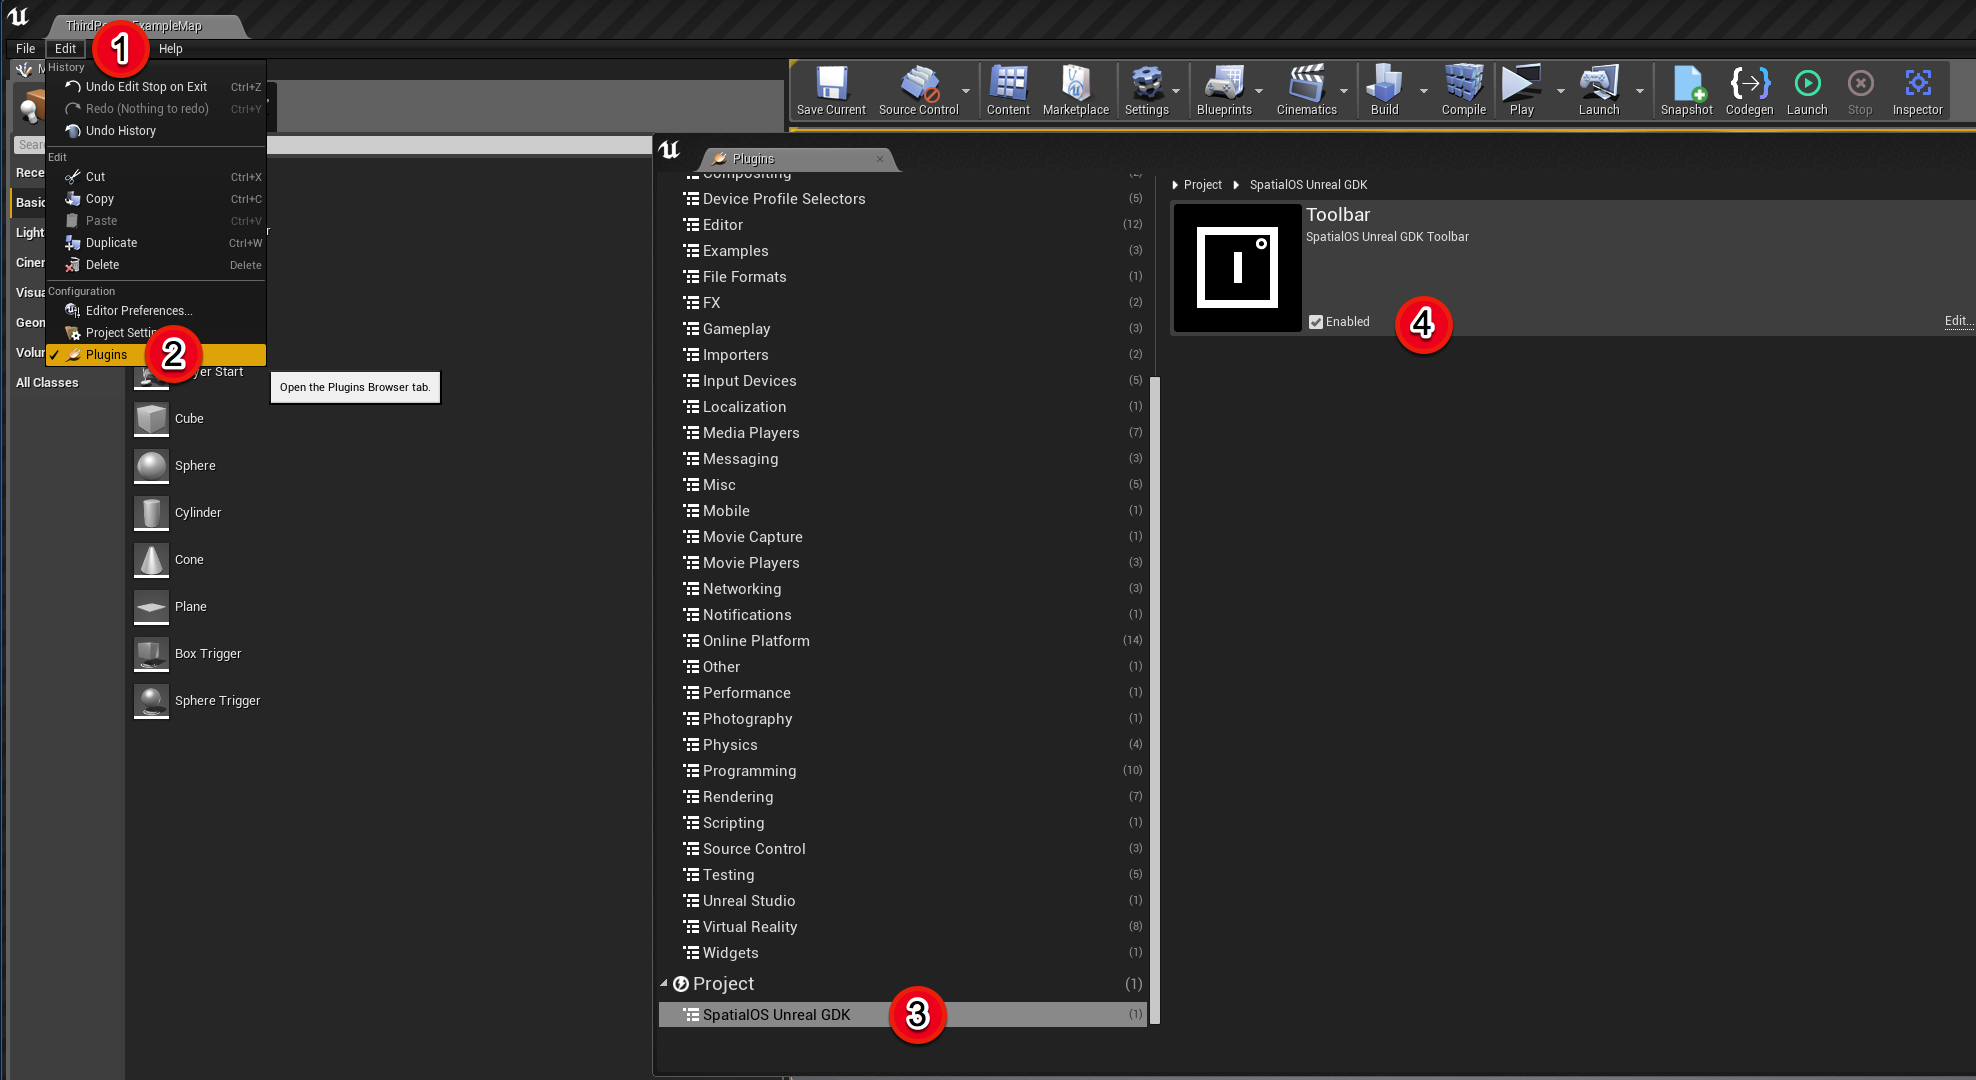
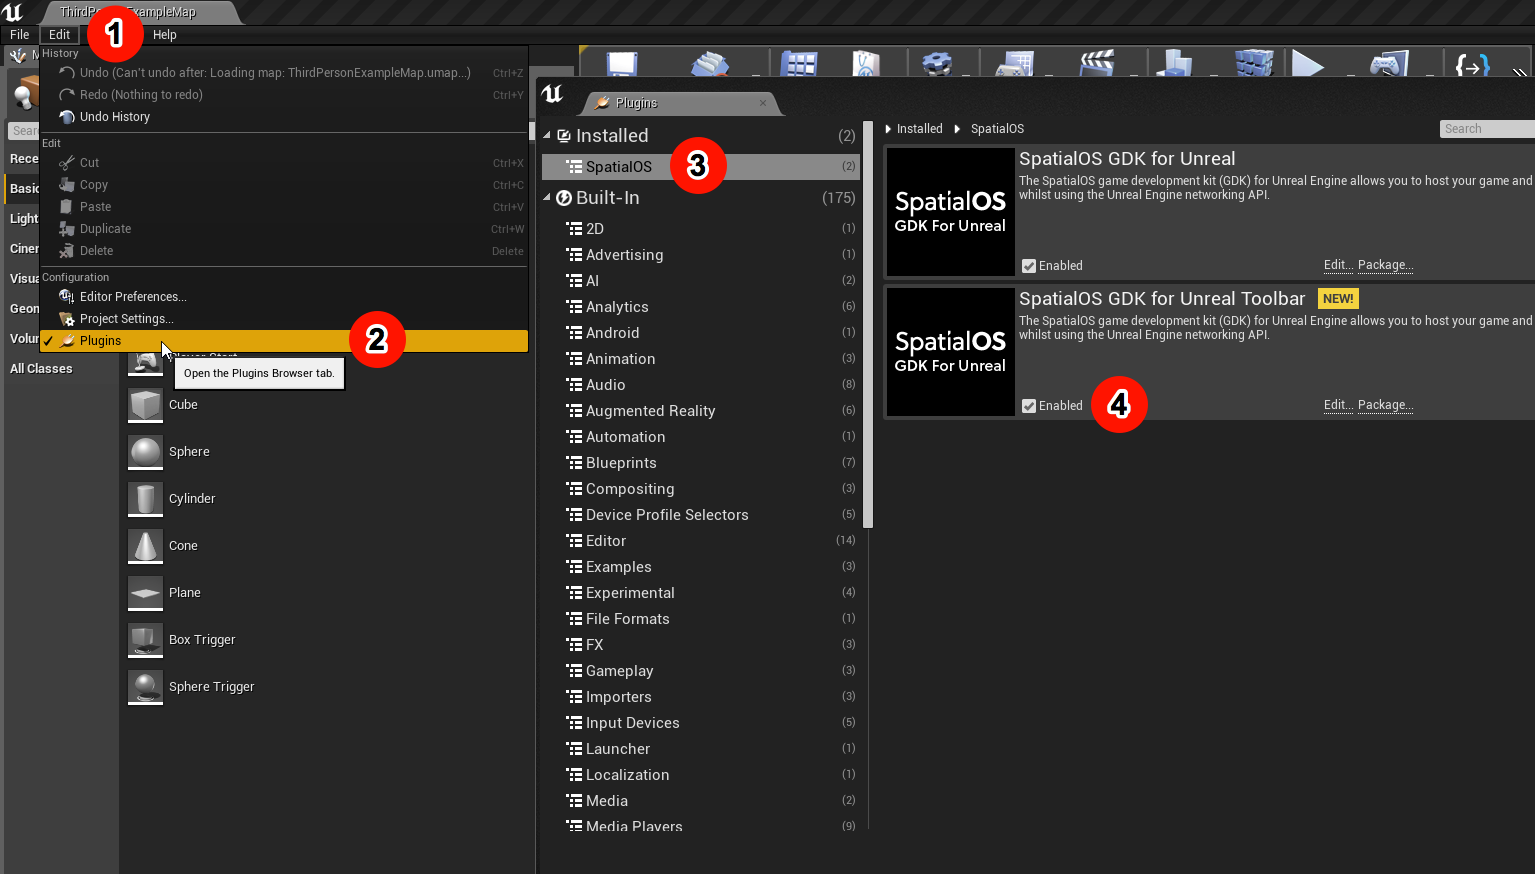
Refactored the plugin naming and image (#459)

Changed region(s): [[0.0, 0.0, 1.0, 1.0]]

diff --git a/SpatialGDKEditorToolbar/Source/Private/SpatialGDKEditorToolbar.cpp b/SpatialGDKEditorToolbar/Source/Private/SpatialGDKEditorToolbar.cpp
@@ -123,12 +123,12 @@ void FSpatialGDKEditorToolbarModule::RegisterSettings()
 	{
 		ISettingsContainerPtr SettingsContainer = SettingsModule->GetContainer("Project");
 
-		SettingsContainer->DescribeCategory("SpatialGDKEditorToolbar", LOCTEXT("RuntimeWDCategoryName", "SpatialOS Unreal GDK"),
-			LOCTEXT("RuntimeWDCategoryDescription", "Configuration for the SpatialGDK Editor toolbar plugin"));
+		SettingsContainer->DescribeCategory("SpatialGDKEditorToolbar", LOCTEXT("RuntimeWDCategoryName", "SpatialOS GDK for Unreal"),
+			LOCTEXT("RuntimeWDCategoryDescription", "Configuration for the SpatialOS GDK for Unreal"));
 
-		ISettingsSectionPtr SettingsSection = SettingsModule->RegisterSettings("Project", "SpatialGDKEditorToolbar", "Toolbar",
-			LOCTEXT("RuntimeGeneralSettingsName", "Toolbar"),
-			LOCTEXT("RuntimeGeneralSettingsDescription", "Configuration for the SpatialOS Unreal GDK toolbar plugin."),
+		ISettingsSectionPtr SettingsSection = SettingsModule->RegisterSettings("Project", "SpatialGDKEditorToolbar", "Settings",
+			LOCTEXT("RuntimeGeneralSettingsName", "Settings"),
+			LOCTEXT("RuntimeGeneralSettingsDescription", "Configuration for the SpatialOS GDK for Unreal"),
 			GetMutableDefault<USpatialGDKEditorToolbarSettings>());
 
 		if (SettingsSection.IsValid())
@@ -142,7 +142,7 @@ void FSpatialGDKEditorToolbarModule::UnregisterSettings()
 {
 	if (ISettingsModule* SettingsModule = FModuleManager::GetModulePtr<ISettingsModule>("Settings"))
 	{
-		SettingsModule->UnregisterSettings("Project", "SpatialGDK", "Toolbar");
+		SettingsModule->UnregisterSettings("Project", "SpatialGDK", "Settings");
 	}
 }
 

diff --git a/SpatialGDK/Documentation/content/toolbars.md b/SpatialGDK/Documentation/content/toolbars.md
@@ -44,7 +44,7 @@ The GDK toolbar provides several functions required for building and launching y
 
 > Note: If you based your project off the [StarterProject](https://github.com/spatialos/UnrealGDKStarterProject), the toolbar is already enabled.
 
-To enable the GDK toolbar, navigate to **Edit** > **Plugins** inside the Unreal Editor and scroll down to the bottom. Select the **SpatialOS Unreal GDK** section and enable the toolbar:
+To enable the GDK toolbar, navigate to **Edit** > **Plugins** inside the Unreal Editor and scroll down to the bottom. Select the **SpatialOS** section and enable the toolbar:
 
 ![Toolbar]({{assetRoot}}assets/screen-grabs/toolbar/enable-toolbar.png)
 
@@ -68,7 +68,7 @@ You can also access these from the **Window** menu:
 
 #### Settings
 
-The toolbar settings are in **Edit** > **Project Settings** > **SpatialOS Unreal GDK** > **Toolbar**.
+The toolbar settings are in **Edit** > **Project Settings** > **SpatialOS GDK for Unreal** > **Settings**.
 
  ![Toolbar]({{assetRoot}}assets/screen-grabs/toolbar/toolbar-settings.png)
 
@@ -86,5 +86,5 @@ The toolbar settings are in **Edit** > **Project Settings** > **SpatialOS Unreal
 
 | Setting | Description |
 | --- | --- |
-| Generate schema for all supported classes | **Experimental** Use this to generate [schema]({{urlRoot}}/content/glossary#schema) for all UObjects that have replicated or handover properties. As the GDK does not currently support multiple replicated Actor components of the same type on an Actor, classes extended from `USceneComponent` don't generate schemas. |
+| Generate schema for all supported classes | Use this to generate [schema]({{urlRoot}}/content/glossary#schema) for all network supported UObjects. Classes extended from `USceneComponent` don't generate schemas. **It is highly recommended to leave this option turned on.** |
 | Output path for the generated schemas | Use this to specify the path of the generated [schema]({{urlRoot}}/content/glossary#schema) files.  If you leave this empty, it defaults to `<GameRoot>/../spatial/schema/improbable/unreal/generated/`. |
